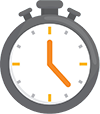
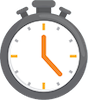
update progres

diff --git a/src/progressbar.js b/src/progressbar.js
@@ -3,12 +3,13 @@ import pg_background from './assets/images/progressbar/background.png';
 import pg_mask from './assets/images/progressbar/mask.png';
 import pg_progress from './assets/images/progressbar/progress.png';
 
+import timer from './assets/images/objects/timer.png';
+
 export class ProgressBar {
     constructor (scene, reduceSpeed = 0.5){
         this.reduceSpeed = reduceSpeed;
         this.scene = scene;
         
-
     }
     create(){
         this.pgBackground = this.scene.make.image({
@@ -32,12 +33,26 @@ export class ProgressBar {
         });
         this.pgProgress.mask = new Phaser.Display.Masks.BitmapMask(this.scene, this.mask);       
 
+        this.timer = this.scene.make.image({
+            x: (this.scene.game.config.width / 2) - 261 -35,
+            y: 100,
+            key: 'timer',
+            add: true
+        });
+
     }
     update(){
-        if(this.pgProgress.x + (this.pgBackground.width/2) > 0){
+        if( this.gameover === true){
+            console.log("game over");
+            return;
+        }
+        if(this.pgProgress.x + (this.pgBackground.width/2) > this.pgBackground.width/2){
             this.pgProgress.x -= this.reduceSpeed;
         }else{
-            //console.log("game over");
+            
+            this.gameover = true;
+            this.cb();
+            
         }
         
     }
@@ -45,10 +60,16 @@ export class ProgressBar {
         this.scene.load.image('pg_background', pg_background);
         this.scene.load.image('pg_mask', pg_mask);
         this.scene.load.image('pg_progress', pg_progress);
+        this.scene.load.image('timer', timer);
     }
 
     addProgress(percentX){
-        this.pgProgress.x += this.pgProgress.width/100 * percentX;
+        if( this.gameover !== true){
+            this.pgProgress.x += this.pgProgress.width/100 * percentX;
+        }        
+    }
+    addGameoverFunc(cb){
+        this.cb = cb;
     }
         
 }

diff --git a/src/drinker.js b/src/drinker.js
@@ -30,8 +30,7 @@ export class Drinker{
     }
     create(){
         UserDrink.createAnimation(this.scene);                
-        this.drinker = this.scene.add.sprite(this.scene.game.config.width / 2, 1000, this.playState('waiting'));
-
+        this.drinker = this.scene.add.sprite(this.scene.game.config.width / 2, 800, this.playState('waiting'));
         let dk = this;
         this.drinker.on(Phaser.Animations.Events.ANIMATION_COMPLETE, function () {            
             console.log("animation completed ", dk.drinker.anims.currentAnim.key);
@@ -51,6 +50,8 @@ export class Drinker{
                 } else if (dk.percentDrink === 50) {
                     dk.drinker.play( dk.playState("resp50")); 
                 } else if (dk.percentDrink === 25) {
+                    dk.drinker.play( dk.playState("resp25")); 
+                } else if (dk.percentDrink === -50) {
                     dk.drinker.play( dk.playState("resp25")); 
                 }
             } else if (dk.drinker.anims.currentAnim.key.substring(2, 6) === "resp"){                
@@ -74,8 +75,9 @@ export class Drinker{
         this.drinker.play(this.playState("drink"));
     }
     addPoint( point, x, y) {
-
-        let bitmapFont = this.scene.add.bitmapText(x, y, 'atari', '+'+point)
+        // let txtPoint = point;
+        var txtPoint = (point>0)? "+" + point: "" + point;
+        let bitmapFont = this.scene.add.bitmapText(x, y, 'atari', txtPoint)
             .setOrigin(0.5);
 
         this.scene.tweens.add({

diff --git a/src/index.js b/src/index.js
@@ -76,7 +76,8 @@ class MyGame extends Phaser.Scene
         
         let beer = this.beer;
         this.beer.addEvent(Beer.BEER_COMPLETED_100, ()=>{            
-            this.pourBeerCompleted(beer, 100);            
+            this.pourBeerCompleted(beer, 100);        
+            this.bar.addProgress(10);
         });
         this.beer.addEvent(Beer.BEER_COMPLETED_75, ()=>{
             this.pourBeerCompleted(beer, 75);            
@@ -86,7 +87,15 @@ class MyGame extends Phaser.Scene
         });
         this.beer.addEvent(Beer.BEER_COMPLETED_25, ()=>{
             this.pourBeerCompleted(beer, 25);            
+        });
+        this.beer.addEvent(Beer.BEER_COMPLETED_OVER, ()=>{              
+            this.pourBeerCompleted(beer, -50);            
         });             
+
+        this.bar.addGameoverFunc(()=>{
+            console.log("game over");            
+            this.gameover = true;
+        });
                 
     }
 
@@ -97,7 +106,6 @@ class MyGame extends Phaser.Scene
             this.drinker.drinkBeer(percentPour);
             
         }, this.timeDelayPourCompleted);
-
     }
     
 
@@ -107,8 +115,7 @@ class MyGame extends Phaser.Scene
                 e.update();
             }            
         }); 
-    }
-    
+    }    
 }
 
 const config = {

diff --git a/src/beer.js b/src/beer.js
@@ -101,7 +101,7 @@ export class Beer {
                 { key: 'beer10' },
                 { key: 'beer11' },
                 { key: 'beer12' },
-                { key: 'beer13', duration: 50 }
+                { key: 'beer13' }
             ],
             frameRate: 8,
             repeat:0
@@ -214,12 +214,13 @@ export class Beer {
             }
             
         });
-
+        let beer = this.beer;
+        let t = this;
         this.beer.on(Phaser.Animations.Events.ANIMATION_COMPLETE, function () {
-            // console.log("completed beer")
-            // isOverFlow = true;
-            // this.beer.anims.timeScale = 1;
-            // this.beer.play("beerOver"); 
+            isOverFlow = true;
+            beer.anims.timeScale = 1;
+            beer.play("beerOver"); 
+            t.mapEvent.get(BEER_COMPLETED_OVER)();
 
         }, this.scene);
     }
